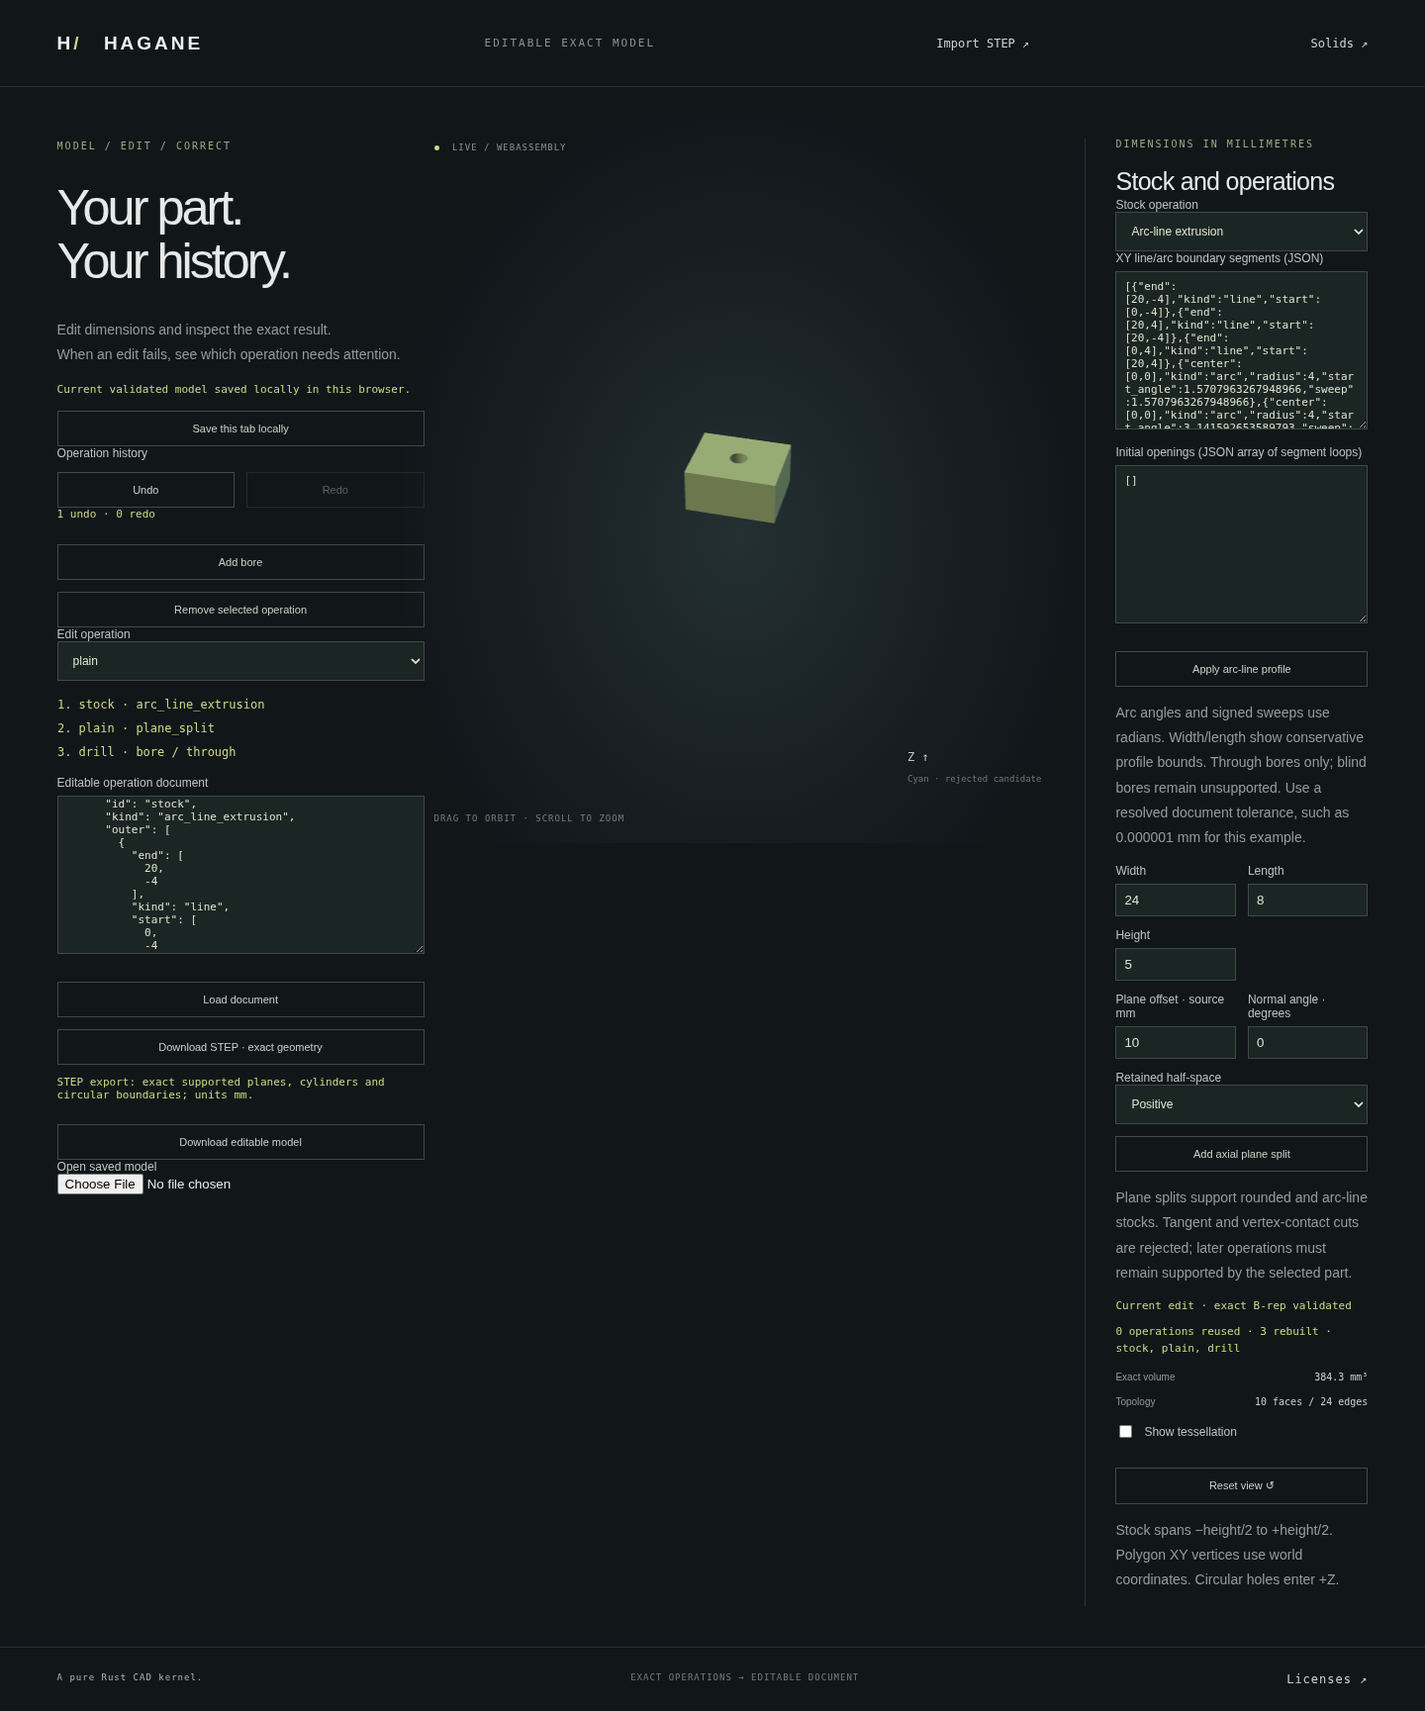
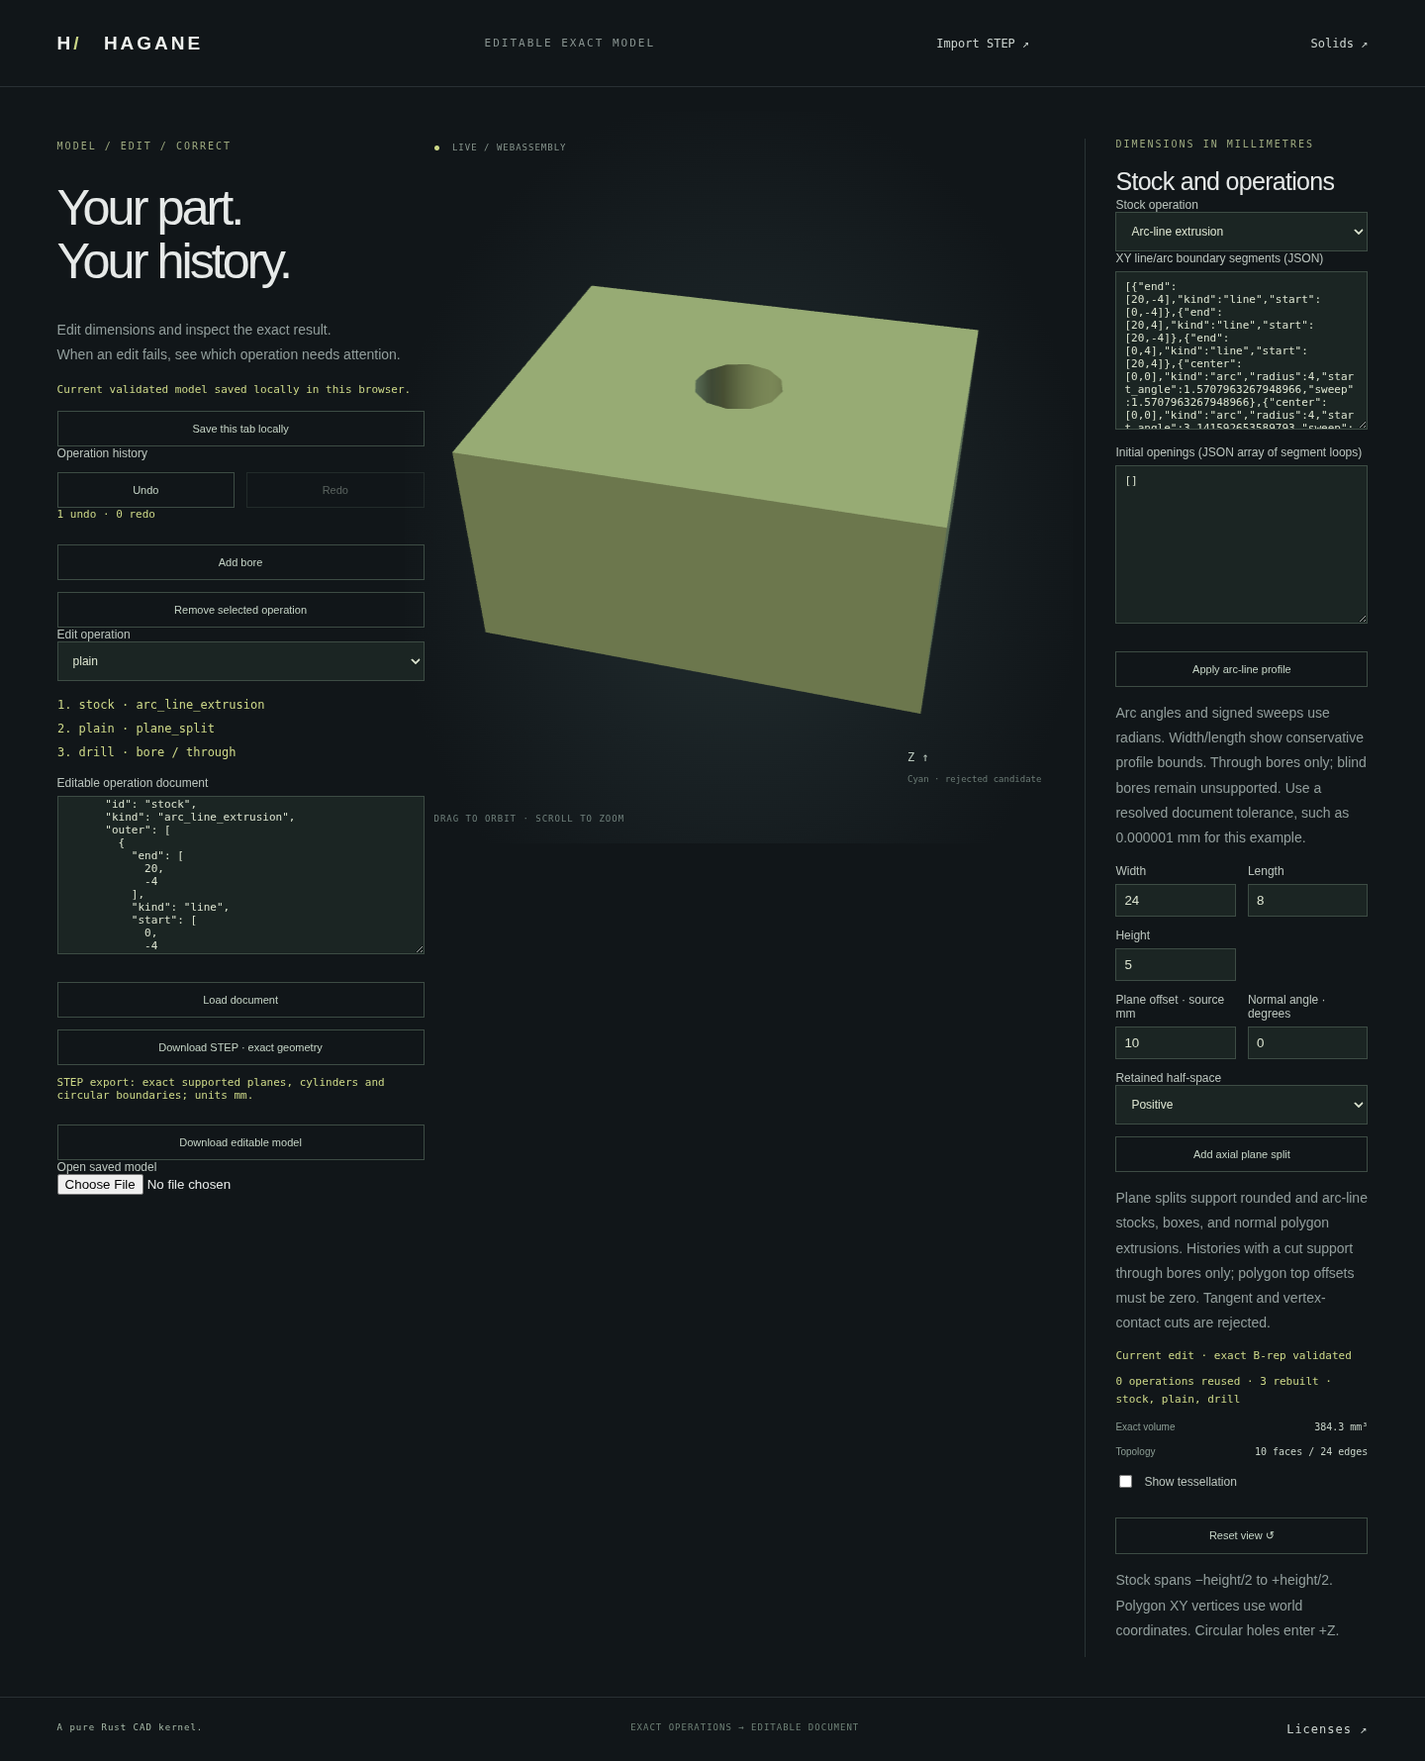
Fit shared CAD viewer to model scale with guarded display transforms

diff --git a/web/viewer.js b/web/viewer.js
@@ -1,8 +1,10 @@
 // Shared display-only WebGL viewer. All geometry/normal evaluation lives in Rust.
+import {meshDisplayScale, cameraProjection, VERTICAL_FOV} from './view-camera.mjs';
 export function createMeshViewer(canvas,{doubleSided=false}={}) {
  const gl=canvas.getContext('webgl',{antialias:true,preserveDrawingBuffer:true});
  if(!gl)throw Error('WebGL is unavailable in this browser.');
- let yaw=0.65,elevation=0.82,distance=205,count=0,dragging=false,last=[0,0],wire=false,spin=false,markerCount=0;
+ let yaw=0.65,elevation=0.82,zoom=1,scale=1,radius=1,count=0,dragging=false,last=[0,0],wire=false,spin=false,markerCount=0,rawOverlay=null,overlayVisible=true;
+ function camera(){return cameraProjection(radius,canvas.clientWidth/Math.max(1,canvas.clientHeight),zoom);}
  function shader(type,source){const s=gl.createShader(type);gl.shaderSource(s,source);gl.compileShader(s);if(!gl.getShaderParameter(s,gl.COMPILE_STATUS))throw Error(gl.getShaderInfoLog(s));return s;}
  const p=gl.createProgram();gl.attachShader(p,shader(gl.VERTEX_SHADER,`
 attribute vec3 position;attribute vec3 normal;uniform vec3 right;uniform vec3 up;uniform vec3 back;uniform float distance;uniform mat4 projection;varying vec3 n;
@@ -13,10 +15,28 @@ void main(){if(lines){gl_FragColor=vec4(lineColor,1.0);return;}vec3 N=normalize(
  const locations=Object.fromEntries(['right','up','back','distance','projection','lines','doubleSided','lineColor'].map(k=>[k,gl.getUniformLocation(p,k)]));gl.uniform1i(locations.doubleSided,doubleSided);
  const buffers=Object.fromEntries(['positions','normals','linePositions','lineNormals','marker','markerNormals'].map(k=>[k,gl.createBuffer()]));
  function bind(buffer,attribute,data){gl.bindBuffer(gl.ARRAY_BUFFER,buffer);if(data)gl.bufferData(gl.ARRAY_BUFFER,new Float32Array(data),gl.STATIC_DRAW);const loc=gl.getAttribLocation(p,attribute);gl.enableVertexAttribArray(loc);gl.vertexAttribPointer(loc,3,gl.FLOAT,false,0,0);}
- function render(){const dpr=Math.min(devicePixelRatio,2),w=Math.round(canvas.clientWidth*dpr),h=Math.round(canvas.clientHeight*dpr);if(!w||!h)return;if(canvas.width!==w||canvas.height!==h){canvas.width=w;canvas.height=h;}gl.viewport(0,0,w,h);gl.clearColor(0,0,0,0);gl.clear(gl.COLOR_BUFFER_BIT|gl.DEPTH_BUFFER_BIT);const back=[Math.sin(yaw)*Math.cos(elevation),-Math.cos(yaw)*Math.cos(elevation),Math.sin(elevation)],right=[Math.cos(yaw),Math.sin(yaw),0],up=[-Math.sin(yaw)*Math.sin(elevation),Math.cos(yaw)*Math.sin(elevation),Math.cos(elevation)];gl.uniform3fv(locations.back,back);gl.uniform3fv(locations.right,right);gl.uniform3fv(locations.up,up);gl.uniform1f(locations.distance,distance);const f=1/Math.tan(0.65/2),near=1,far=1000;gl.uniformMatrix4fv(locations.projection,false,new Float32Array([f/(w/h),0,0,0,0,f,0,0,0,0,(far+near)/(near-far),-1,0,0,2*far*near/(near-far),0]));bind(buffers.positions,'position');bind(buffers.normals,'normal');gl.uniform1i(locations.lines,0);gl.enable(gl.POLYGON_OFFSET_FILL);gl.polygonOffset(1,1);gl.drawArrays(gl.TRIANGLES,0,count);gl.disable(gl.POLYGON_OFFSET_FILL);gl.uniform1i(locations.lines,1);if(wire){gl.uniform3fv(locations.lineColor,[0.12,0.17,0.12]);bind(buffers.linePositions,'position');bind(buffers.lineNormals,'normal');gl.drawArrays(gl.LINES,0,count*2);}if(markerCount){gl.depthFunc(gl.LEQUAL);gl.uniform3fv(locations.lineColor,[0.4,0.9,0.85]);bind(buffers.marker,'position');bind(buffers.markerNormals,'normal');gl.drawArrays(gl.LINES,0,markerCount);gl.drawArrays(gl.POINTS,0,1);gl.depthFunc(gl.LESS);}}
- function setMesh(mesh){if(mesh.positions.length!==mesh.normals.length||mesh.positions.length%9!==0)throw Error('Invalid display mesh.');count=mesh.positions.length/3;bind(buffers.positions,'position',mesh.positions);bind(buffers.normals,'normal',mesh.normals);const lines=[],normals=[];for(let i=0;i<count;i+=3){for(const [a,b] of [[0,1],[1,2],[2,0]]){lines.push(...mesh.positions.slice((i+a)*3,(i+a+1)*3),...mesh.positions.slice((i+b)*3,(i+b+1)*3));normals.push(...mesh.normals.slice((i+a)*3,(i+a+1)*3),...mesh.normals.slice((i+b)*3,(i+b+1)*3));}}bind(buffers.linePositions,'position',lines);bind(buffers.lineNormals,'normal',normals);render();}
- function setMarker(point,normal){markerCount=point?2:0;if(point){bind(buffers.marker,'position',[...point,...point.map((v,i)=>v+normal[i]*14)]);bind(buffers.markerNormals,'normal',[...normal,...normal]);}render();}
- function setSegments(segments){const positions=segments.flat(2);markerCount=positions.length/3;bind(buffers.marker,'position',positions);bind(buffers.markerNormals,'normal',new Array(positions.length).fill(0));render();}
- const api={setMesh,setMarker,setSegments,render,setAngle(a){yaw=a;render();},reset(){yaw=0.65;elevation=0.82;distance=205;render();},set wireframe(value){wire=Boolean(value);render();},set autoRotate(value){spin=Boolean(value);}};
- canvas.addEventListener('pointerdown',e=>{dragging=true;last=[e.clientX,e.clientY];canvas.setPointerCapture(e.pointerId);});canvas.addEventListener('pointerup',()=>dragging=false);canvas.addEventListener('pointercancel',()=>dragging=false);canvas.addEventListener('pointermove',e=>{if(!dragging)return;yaw+=(e.clientX-last[0])*0.008;elevation=Math.max(-1.35,Math.min(1.35,elevation+(e.clientY-last[1])*0.006));last=[e.clientX,e.clientY];render();});canvas.addEventListener('wheel',e=>{e.preventDefault();distance=Math.max(120,Math.min(350,distance*Math.exp(e.deltaY*0.001)));render();},{passive:false});canvas.addEventListener('keydown',e=>{if(e.key==='ArrowLeft')yaw-=0.1;else if(e.key==='ArrowRight')yaw+=0.1;else if(e.key==='ArrowUp')elevation=Math.min(1.35,elevation+0.1);else if(e.key==='ArrowDown')elevation=Math.max(-1.35,elevation-0.1);else if(e.key==='+')distance=Math.max(120,distance-10);else if(e.key==='-')distance=Math.min(350,distance+10);else return;e.preventDefault();render();});new ResizeObserver(render).observe(canvas);let previous=performance.now();function frame(now){if(spin){yaw+=(now-previous)*0.00025;render();}previous=now;requestAnimationFrame(frame);}requestAnimationFrame(frame);return api;
+ function render(){const dpr=Math.min(devicePixelRatio,2),w=Math.round(canvas.clientWidth*dpr),h=Math.round(canvas.clientHeight*dpr);if(!w||!h)return;if(canvas.width!==w||canvas.height!==h){canvas.width=w;canvas.height=h;}gl.viewport(0,0,w,h);gl.clearColor(0,0,0,0);gl.clear(gl.COLOR_BUFFER_BIT|gl.DEPTH_BUFFER_BIT);const back=[Math.sin(yaw)*Math.cos(elevation),-Math.cos(yaw)*Math.cos(elevation),Math.sin(elevation)],right=[Math.cos(yaw),Math.sin(yaw),0],up=[-Math.sin(yaw)*Math.sin(elevation),Math.cos(yaw)*Math.sin(elevation),Math.cos(elevation)];gl.uniform3fv(locations.back,back);gl.uniform3fv(locations.right,right);gl.uniform3fv(locations.up,up);const view=camera();zoom=view.zoom;gl.uniform1f(locations.distance,view.distance);const f=1/Math.tan(VERTICAL_FOV/2),{near,far}=view;gl.uniformMatrix4fv(locations.projection,false,new Float32Array([f/(w/h),0,0,0,0,f,0,0,0,0,(far+near)/(near-far),-1,0,0,2*far*near/(near-far),0]));bind(buffers.positions,'position');bind(buffers.normals,'normal');gl.uniform1i(locations.lines,0);gl.enable(gl.POLYGON_OFFSET_FILL);gl.polygonOffset(1,1);gl.drawArrays(gl.TRIANGLES,0,count);gl.disable(gl.POLYGON_OFFSET_FILL);gl.uniform1i(locations.lines,1);if(wire){gl.uniform3fv(locations.lineColor,[0.12,0.17,0.12]);bind(buffers.linePositions,'position');bind(buffers.lineNormals,'normal');gl.drawArrays(gl.LINES,0,count*2);}if(markerCount){gl.depthFunc(gl.LEQUAL);gl.uniform3fv(locations.lineColor,[0.4,0.9,0.85]);bind(buffers.marker,'position');bind(buffers.markerNormals,'normal');gl.drawArrays(gl.LINES,0,markerCount);gl.drawArrays(gl.POINTS,0,1);gl.depthFunc(gl.LESS);}}
+ function uploadOverlay(){
+  if(!rawOverlay){markerCount=0;overlayVisible=true;return;}
+  let positions,normals;
+  if(rawOverlay.kind==='point'){
+   const point=rawOverlay.point.map(v=>v/scale),end=point.map((v,i)=>v+rawOverlay.normal[i]*radius*0.28);
+   positions=[...point,...end];normals=[...rawOverlay.normal,...rawOverlay.normal];
+  }else{positions=rawOverlay.positions.map(v=>v/scale);normals=new Array(positions.length).fill(0);}
+  // A distant overlay may be outside GPU range even though the CAD result is valid.
+  overlayVisible=positions.every(v=>Number.isFinite(Math.fround(v)))&&normals.every(Number.isFinite);
+  markerCount=overlayVisible?positions.length/3:0;
+  if(markerCount){bind(buffers.marker,'position',positions);bind(buffers.markerNormals,'normal',normals);}
+ }
+ function setMesh(mesh){const prepared=meshDisplayScale(mesh.positions,mesh.normals),nextCount=prepared.positions.length/3;
+  const lines=[],normals=[];for(let i=0;i<nextCount;i+=3){for(const [a,b] of [[0,1],[1,2],[2,0]]){lines.push(...prepared.positions.slice((i+a)*3,(i+a+1)*3),...prepared.positions.slice((i+b)*3,(i+b+1)*3));normals.push(...mesh.normals.slice((i+a)*3,(i+a+1)*3),...mesh.normals.slice((i+b)*3,(i+b+1)*3));}}
+  // Validate and prepare every array before replacing the accepted display state.
+  scale=prepared.scale;radius=prepared.radius;count=nextCount;
+  bind(buffers.positions,'position',prepared.positions);bind(buffers.normals,'normal',mesh.normals);bind(buffers.linePositions,'position',lines);bind(buffers.lineNormals,'normal',normals);uploadOverlay();render();
+ }
+ function setMarker(point,normal){rawOverlay=point?{kind:'point',point:[...point],normal:[...normal]}:null;uploadOverlay();render();return overlayVisible;}
+ function setSegments(segments){rawOverlay={kind:'segments',positions:segments.flat(2)};uploadOverlay();render();return overlayVisible;}
+ Object.defineProperty(canvas,'haganeCamera',{get:()=>Object.freeze({...camera(),scale,radius,yaw,elevation,aspect:canvas.clientWidth/Math.max(1,canvas.clientHeight),vertexCount:count,overlayVisible})});
+ const api={setMesh,setMarker,setSegments,render,setAngle(a){yaw=a;render();},reset(){yaw=0.65;elevation=0.82;zoom=1;render();},set wireframe(value){wire=Boolean(value);render();},set autoRotate(value){spin=Boolean(value);}};
+ canvas.addEventListener('pointerdown',e=>{dragging=true;last=[e.clientX,e.clientY];canvas.setPointerCapture(e.pointerId);});canvas.addEventListener('pointerup',()=>dragging=false);canvas.addEventListener('pointercancel',()=>dragging=false);canvas.addEventListener('pointermove',e=>{if(!dragging)return;yaw+=(e.clientX-last[0])*0.008;elevation=Math.max(-1.35,Math.min(1.35,elevation+(e.clientY-last[1])*0.006));last=[e.clientX,e.clientY];render();});canvas.addEventListener('wheel',e=>{e.preventDefault();zoom=cameraProjection(radius,canvas.clientWidth/Math.max(1,canvas.clientHeight),zoom*Math.exp(Math.max(-10,Math.min(10,e.deltaY*0.001)))).zoom;render();},{passive:false});canvas.addEventListener('keydown',e=>{if(e.key==='ArrowLeft')yaw-=0.1;else if(e.key==='ArrowRight')yaw+=0.1;else if(e.key==='ArrowUp')elevation=Math.min(1.35,elevation+0.1);else if(e.key==='ArrowDown')elevation=Math.max(-1.35,elevation-0.1);else if(e.key==='+')zoom=cameraProjection(radius,canvas.clientWidth/Math.max(1,canvas.clientHeight),zoom*Math.exp(-0.07)).zoom;else if(e.key==='-')zoom=cameraProjection(radius,canvas.clientWidth/Math.max(1,canvas.clientHeight),zoom*Math.exp(0.07)).zoom;else return;e.preventDefault();render();});new ResizeObserver(render).observe(canvas);let previous=performance.now();function frame(now){if(spin){yaw+=(now-previous)*0.00025;render();}previous=now;requestAnimationFrame(frame);}requestAnimationFrame(frame);return api;
 }

diff --git a/docs/viewer-scale.md b/docs/viewer-scale.md
@@ -1,0 +1,74 @@
+# Scale-aware WebGL display
+
+![Actual cut-and-bored B-rep with the default fitted camera](workflow-plain-continuation.png)
+
+The shared viewer now fits the actual display mesh instead of using camera
+distance 205 and zoom limits 120–350 in model units. A 10 mm cut child can
+be inspected at a useful size; a large part can fit without the old
+1000-unit far-plane clipping. Orbit, wheel/keyboard zoom and Reset operate
+on the same display-only camera. CAD coordinates, units, metrics, topology,
+pcurves and STEP remain unchanged.
+
+## Display transform and camera
+
+Received mesh positions are divided by their maximum absolute coordinate
+before upload to Float32 GPU buffers. A circumsphere about the received
+origin bounds these normalized positions. This is a similarity transform
+for rendering; it does not edit the source mesh or choose a new CAD origin.
+Callers' existing display centering is preserved. A far-translated part whose
+caller deliberately retains the origin may still appear small.
+
+Default/Reset distance is `1.1 * radius / sin(half_fov)`. The half-angle is
+the smaller of vertical and horizontal view angles, so portrait viewports
+also fit. Zoom is a dimensionless distance ratio preserved across accepted
+geometry edits. Zoom-in stops outside the bounding sphere; zoom-out and
+near/far clipping scale with the actual bounds. Resize recomputes the fit
+from the current aspect ratio. Deliberate zoom-in may crop the model.
+
+Markers and candidate segments use the same normalization. Their original
+coordinates are retained and re-uploaded when an accepted mesh changes scale.
+The viewer's decorative normal arrow has length 0.28 of the display sphere
+radius; it represents direction, not a measured CAD edge. Some callers
+construct their own fixed-unit tangent arrows as segments; those lengths
+remain unchanged. Overlays outside finite Float32 range are declined without
+changing the accepted body/camera; setters return false and the readonly
+`canvas.haganeCamera.overlayVisible` reports false.
+
+Positions, normals and display bounds are checked before accepted buffers or
+camera state change. Finite normals that overflow Float32 reject. Empty
+meshes intentionally clear the viewport for a real empty Boolean intersection.
+Degenerate nonempty meshes and nonfinite data reject. This renderer validation
+is not CAD shape validation or a general screen-space approximation guarantee.
+Existing Rust tessellation error contracts apply in original model units.
+
+`canvas.haganeCamera` exposes a readonly snapshot of normalized radius, scale,
+distance, clipping planes, distance-ratio zoom, angles, viewport aspect, vertex
+count and overlay visibility for integrations and diagnostics.
+
+## Verification
+
+```sh
+node scripts/test-view-camera.mjs
+```
+
+Independent tests project 486000 sphere points across radii, viewport aspects,
+yaw/pitch and zoom states. Default/zoom-out positions fit; all allowed zoom
+states retain positive depth and safe near/far planes. Frozen input arrays at
+scales 1e-150, 1 and 1e150 retain equivalent finite Float32 display positions
+without source mutation. Malformed/nonfinite/collapsed meshes and excessive
+normal magnitudes reject; empty intersection display remains supported.
+These checks run in CI alongside the existing kernel/WASM/browser checks.
+
+The complete browser suite passed with the shared viewer change. Actual Rust/WASM
+cut-and-bored solids at dimension scales 1, 1e-4 and 100 retain the analytic
+volume `(400 - 5*pi) * scale^3`, unchanged mesh data and byte-identical STEP
+through orbit, wheel/keyboard zoom and Reset. Framebuffer bounds verify useful
+unclipped default occupancy; Reset restores the original GPU pixels exactly.
+Invalid CAD edits preserve the accepted mesh and camera.
+
+Additional browser checks compare actual GPU pixels for retained raw markers
+and segments after mesh rescaling, reject nonfinite/collapsed meshes and
+Float32-overflowing normals without changing accepted pixels/camera, clear an
+empty mesh, and decline an unrepresentable distant overlay without changing
+the accepted body. The refreshed image above was captured from this running
+implementation, without manual capture zoom or a substitute model.

diff --git a/docs/references.md b/docs/references.md
@@ -1051,3 +1051,14 @@ certificates are unchanged. Incremental reuse includes the construction-domain
 identity because full circles and four quarter arcs have different exact
 topologies even when modeling intent is equal. STEP dispatch follows the same
 identity. No new mathematical method, dependency or OCCT source is introduced.
+
+## Scale-aware perspective display
+
+The display camera uses the elementary right-triangle tangent-sphere relation
+`distance = radius / sin(half_fov)` and the standard perspective frustum
+projection, with an engineering fit margin. WebGL floating-point attributes
+follow the [WebGL specification](https://registry.khronos.org/webgl/specs/latest/1.0/).
+Dividing display coordinates by a common finite scale is a similarity transform;
+this changes no CAD coordinates or mathematical modeling algorithm. The
+implementation and independent projection tests are original MIT OR Apache-2.0
+code, with no new dependencies and no OCCT source.

diff --git a/GOAL.md b/GOAL.md
@@ -1474,3 +1474,14 @@ remain reproducible. No-cut through/blind behavior is preserved; skew and
 blind machining in cut histories explicitly reject. See [normal stock cut
 histories](docs/workflow-planar-cuts.md). General curved Booleans remain future
 work. The estimate remains 15–25% toward the standing 80% target.
+
+## Inspection across model scales
+
+The shared display-only viewer now normalizes actual mesh coordinates and fits
+a bounding sphere for viewport aspect, relative zoom and safe clipping. Small
+cut parts and large models remain inspectable without fixed-unit camera limits.
+CAD geometry/STEP coordinates stay unchanged; marker normalization follows
+accepted mesh scale. Independent projection tests accompany actual browser
+inspection. See [scale-aware display](docs/viewer-scale.md). This
+addresses end-to-end inspection usability; broad CAD coverage remains
+15–25% toward the standing 80% target.

diff --git a/docs/roadmap.md b/docs/roadmap.md
@@ -1387,3 +1387,14 @@ remain reproducible. No-cut through/blind behavior is preserved; skew and
 blind machining in cut histories explicitly reject. See [normal stock cut
 histories](workflow-planar-cuts.md). General curved Booleans remain future
 work. The estimate remains 15–25% toward the standing 80% target.
+
+## Inspection across model scales
+
+The shared display-only viewer now normalizes actual mesh coordinates and fits
+a bounding sphere for viewport aspect, relative zoom and safe clipping. Small
+cut parts and large models remain inspectable without fixed-unit camera limits.
+CAD geometry/STEP coordinates stay unchanged; marker normalization follows
+accepted mesh scale. Independent projection tests accompany actual browser
+inspection. See [scale-aware display](viewer-scale.md). This
+addresses end-to-end inspection usability; broad CAD coverage remains
+15–25% toward the standing 80% target.

diff --git a/README.md b/README.md
@@ -71,6 +71,8 @@ boundaries; public normal-prism APIs explicitly select the extrusion axis.
 [Box and polygon cut histories](docs/workflow-planar-cuts.md) now also connect
 normal stock, cuts and through bores, including hole-crossing cuts and explicit
 cache invalidation when the exact bore construction domain changes.
+[Scale-aware display](docs/viewer-scale.md) fits small and large parts using
+the actual mesh extent, with relative zoom and unchanged CAD/STEP coordinates.
 
 [Rectangular NURBS restriction](docs/nurbs-surface-trim.md) now retains an exact
 selected UV rectangle with rational B-rep edges, shared corners and bounded
